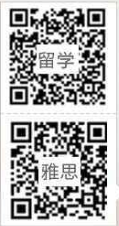
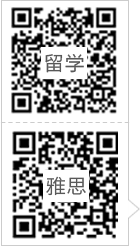
change

diff --git a/o/首页.html b/o/首页.html
@@ -455,12 +455,12 @@
             $('#go-to-ttop').fadeOut();  
     }});
 
-$("#wechatmsg").mouseover(function(){
-    $(".wechat-qr").css('display','block');
-});
-$("#wechatmsg").mouseleave(function(){
-    $(".wechat-qr").css('display','none');
-});
+    $("#wechatmsg").mouseover(function(){
+        $(".wechat-qr").css('display','block');
+    });
+    $("#wechatmsg").mouseleave(function(){
+        $(".wechat-qr").css('display','none');
+    });
 
 
     jQuery(function($){

diff --git a/o/css/style.css b/o/css/style.css
@@ -3465,6 +3465,7 @@ p.offset-top{
 	top: 20%;
 	right: 0px;
 	cursor: pointer;
+	z-index: 99;
 }
 
 .index-right-wechat .img-wr{
@@ -3492,11 +3493,12 @@ p.offset-top{
 }
 .wechat-qr{
 	display: none;
-	/*border:1px solid #ccc;*/
 	border-right-width: 10px;
 	position: absolute;
-	right: 80px;
+	right: 60px;
 	top: -118px;
+	width: 110px;
+	height: 190px;
 }
 
 #wechatmsg .wechat-qr img{
